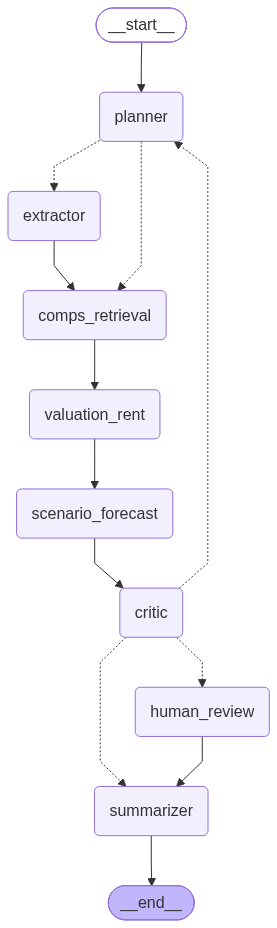
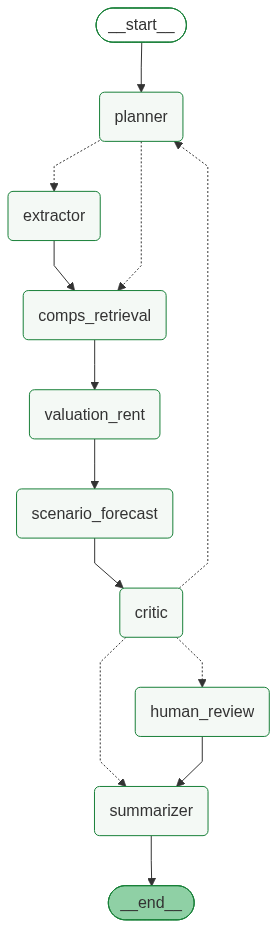
Diagrams: recolor the generated graph PNGs to the green demo theme
_apply_theme() rewrites LangGraph's purple classDef lines to greens from
the Streamlit surface's palette before the .mmd/.png files are written.

diff --git a/src/scripts/export_graph_diagram.py b/src/scripts/export_graph_diagram.py
@@ -25,6 +25,13 @@ authoritative artifacts and are produced offline. The `.png`s are a convenience 
 report and the video and require a network call to mermaid.ink; failure to render one is
 reported and does not fail the export.
 
+**Why the emitted colours are rewritten.** LangGraph's `draw_mermaid()` hard-codes a
+purple palette into the `classDef` lines it emits. The demo surface is a green-and-white
+theme (`app.py`'s `_HEADING_GREEN`, `#188038`), so `_apply_theme` swaps those fills for
+greens drawn from the same palette before either file is written. Like `_to_left_right`
+it is a transform on generated text that touches only presentation — never a node or an
+edge — so both files still derive from the compiled graph and cannot drift from it.
+
 **Why a second orientation exists.** LangGraph emits `graph TD`, which renders this
 eight-node pipeline as a 277x928 strip — correct, and unusable in a README or on a 16:9
 slide, where it becomes a thin column down the page. The left-right variant is the same
@@ -132,6 +139,37 @@ def _to_left_right(mermaid: str) -> str:
     return mermaid.replace(MERMAID_TOP_DOWN, MERMAID_LEFT_RIGHT, 1)
 
 
+# LangGraph emits these two `classDef` lines with a purple palette. The demo surface is
+# green and white, so each is rewritten to a green from that theme: the light-green
+# ground the report's blockquotes use for `default`, a mid green for the `__end__` node,
+# and `#188038` — the report's heading green — as the stroke on both. The `first`
+# (`__start__`) classDef is `fill-opacity:0` and carries no colour, so it is left alone.
+_CLASSDEF_REWRITES = {
+    "classDef default fill:#f2f0ff,line-height:1.2":
+        "classDef default fill:#f4f9f5,stroke:#188038,line-height:1.2",
+    "classDef last fill:#bfb6fc":
+        "classDef last fill:#8fd0a5,stroke:#188038",
+}
+
+
+def _apply_theme(mermaid: str) -> str:
+    """Recolour LangGraph's emitted `classDef` lines to the green-and-white demo theme.
+
+    Raises rather than silently returning the input if neither default line is present:
+    a diagram that is quietly still purple is exactly the drift this script exists to
+    catch, and it would pass unnoticed in review — the file present, non-empty, wrong.
+    """
+    if not any(old in mermaid for old in _CLASSDEF_REWRITES):
+        raise ValueError(
+            "Neither of LangGraph's default classDef lines was found in the generated "
+            "mermaid source; the emitted palette has changed and the green re-theme in "
+            "_apply_theme no longer applies."
+        )
+    for old, new in _CLASSDEF_REWRITES.items():
+        mermaid = mermaid.replace(old, new)
+    return mermaid
+
+
 def _render_png(mermaid: str, path: Path) -> None:
     """Render one mermaid source to PNG, reporting failure rather than raising.
 
@@ -209,7 +247,7 @@ def main() -> int:
     print(f"  branching nodes: {sorted(EXPECTED_BRANCHING_NODES)}")
 
     OUT_DIR.mkdir(parents=True, exist_ok=True)
-    top_down = drawable.draw_mermaid()
+    top_down = _apply_theme(drawable.draw_mermaid())
     left_right = _to_left_right(top_down)
 
     print()

diff --git a/docs/history/changelog.md b/docs/history/changelog.md
@@ -54,6 +54,14 @@ rows. The unit of a row is the change, not the file.
 
 ---
 
+## Sept 6, 2026 — the graph diagrams recolored to the demo theme
+
+| Date added | Unit | Work done | Related checkpoint |
+| --- | --- | --- | --- |
+| Sept 6, 2026 | U9 | **The generated graph diagrams were purple; the demo surface is green and white.** `scripts/export_graph_diagram.py` — `_apply_theme()` rewrites the two `classDef` lines LangGraph's `draw_mermaid()` hard-codes with a purple palette: node fill to `#f4f9f5` (the report's light-green blockquote ground), the `__end__` node to a mid green, and `#188038` — the report's heading green — as the stroke on both. A transform on generated text in the same spirit as `_to_left_right`, touching presentation only, so both files still derive from the compiled graph; it raises rather than silently passing if neither default line is present. Both `.mmd` sources and both `.png`s regenerated | 7.1 |
+
+---
+
 ## Sept 6, 2026 — the surface: one agent panel, and the listing kept on screen
 
 | Date added | Unit | Work done | Related checkpoint |
